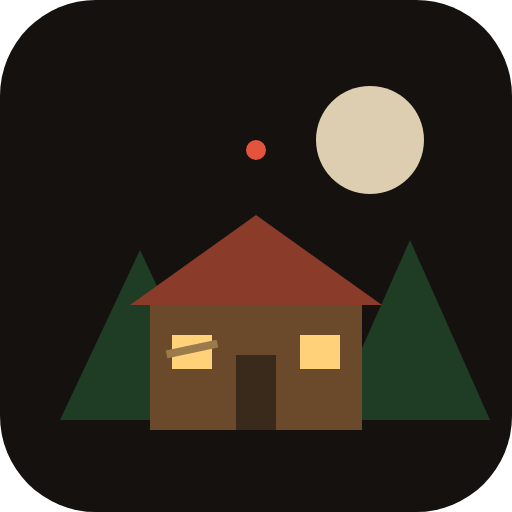
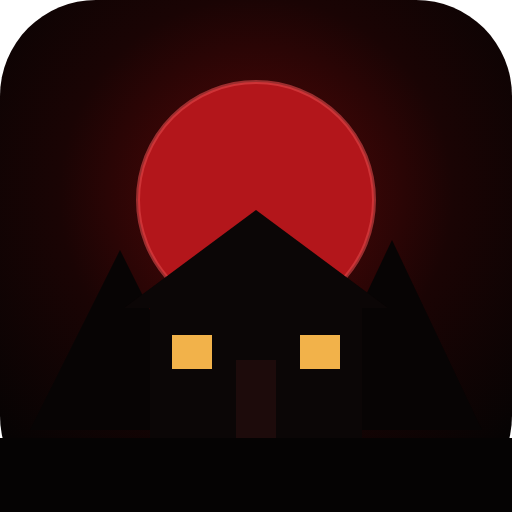
Godfather look: black, blood red and ivory; title fits landscape phones
- Red/black palette, serif (Bodoni/Didot) title and headings, red tabs
- Title no longer clips on landscape phones (2x2 buttons, safe centering)
- Noir app icon with a blood-red moon

Claude-Session: https://claude.ai/code/session_018BiyiJL4VtMftq9gbgBVqk

diff --git a/css/style.css b/css/style.css
@@ -1,12 +1,12 @@
 /* Cabin Under Siege — UI styles. Mobile-first, safe-area aware. */
 :root {
-  --bg: #14110e;
-  --panel: rgba(24, 20, 16, 0.94);
-  --panel2: #2a231b;
-  --line: #4a3c2c;
-  --text: #f1e8d6;
-  --muted: #a8998a;
-  --accent: #e0a542;
+  --bg: #0a0707;
+  --panel: rgba(13, 8, 8, 0.95);
+  --panel2: #1d1111;
+  --line: #4d1b1b;
+  --text: #f2eae2;
+  --muted: #a39390;
+  --accent: #e5484d;
   --good: #6fbf73;
   --danger: #e5533d;
   --info: #5bc0de;
@@ -15,6 +15,9 @@
   --sab: env(safe-area-inset-bottom, 0px);
   --sal: env(safe-area-inset-left, 0px);
   --font: system-ui, -apple-system, "Segoe UI", Roboto, sans-serif;
+  --serif: "Bodoni 72", Didot, "Bodoni MT", "Playfair Display", Georgia, "Times New Roman", serif;
+  --blood: #9b1111;
+  --blood-hi: #c9262a;
 }
 
 * { box-sizing: border-box; -webkit-tap-highlight-color: transparent; }
@@ -29,7 +32,7 @@ html, body {
 #game { position: absolute; left: 0; top: 0; display: block; touch-action: none; }
 .hidden { display: none !important; }
 button { font-family: inherit; color: inherit; touch-action: manipulation; }
-kbd { background: #3a3128; border: 1px solid #5a4c3c; border-bottom-width: 2px; border-radius: 4px; padding: 0 5px; font-size: 0.85em; font-family: inherit; }
+kbd { background: #2a1515; border: 1px solid #5e2424; border-bottom-width: 2px; border-radius: 4px; padding: 0 5px; font-size: 0.85em; font-family: inherit; }
 
 /* ---------------- HUD ---------------- */
 #hud { position: absolute; inset: 0; pointer-events: none; }
@@ -48,7 +51,7 @@ kbd { background: #3a3128; border: 1px solid #5a4c3c; border-bottom-width: 2px; 
 
 .hud-tc { position: absolute; top: calc(6px + var(--sat)); left: 50%; transform: translateX(-50%); width: min(44vw, 420px); text-align: center; }
 .clock { display: inline-block; font-weight: 700; font-size: 13px; background: rgba(0,0,0,0.55); padding: 3px 10px; border-radius: 10px; text-shadow: 0 1px 2px #000; }
-.objective { display: block; margin: 4px auto 0; max-width: 100%; font-size: 12px; line-height: 1.25; text-align: center; background: rgba(20,16,10,0.72); border: 1px solid rgba(224,165,66,0.55); color: #ffe2a8; padding: 4px 10px; border-radius: 8px; cursor: pointer; }
+.objective { display: block; margin: 4px auto 0; max-width: 100%; font-size: 12px; line-height: 1.25; text-align: center; background: rgba(20,16,10,0.72); border: 1px solid rgba(201,38,42,0.55); color: #f4e7d9; padding: 4px 10px; border-radius: 8px; cursor: pointer; }
 .objective::before { content: "◆ "; color: var(--accent); }
 .jobline { margin-top: 3px; font-size: 11px; background: rgba(10,30,40,0.7); border: 1px solid rgba(91,192,222,0.5); padding: 3px 8px; border-radius: 8px; color: #cdefff; }
 
@@ -69,7 +72,7 @@ kbd { background: #3a3128; border: 1px solid #5a4c3c; border-bottom-width: 2px; 
 .banner { position: absolute; top: calc(108px + var(--sat)); left: 50%; transform: translateX(-50%); max-width: min(92vw, 640px); text-align: center; background: rgba(18,14,10,0.92); border: 1px solid var(--line); padding: 8px 14px; border-radius: 10px; font-size: 13px; line-height: 1.3; animation: slide 0.25s ease-out; }
 .banner.b-danger { border-color: #ff6a50; background: rgba(70,14,8,0.94); }
 .banner.b-good { border-color: var(--good); }
-.banner.b-objective { border-color: var(--accent); color: #ffe2a8; }
+.banner.b-objective { border-color: var(--accent); color: #f4e7d9; }
 @keyframes slide { from { opacity: 0; transform: translate(-50%, -8px); } to { opacity: 1; transform: translate(-50%, 0); } }
 .cover-tag { position: absolute; left: 50%; bottom: calc(40% + var(--sab)); transform: translateX(-50%); font-size: 11px; font-weight: 800; background: rgba(30,60,90,0.85); border: 1px solid var(--info); padding: 2px 8px; border-radius: 6px; }
 .toasts { position: absolute; left: calc(10px + var(--sal)); top: calc(78px + var(--sat)); width: min(46vw, 320px); display: flex; flex-direction: column; gap: 4px; }
@@ -77,7 +80,7 @@ kbd { background: #3a3128; border: 1px solid #5a4c3c; border-bottom-width: 2px; 
 .toast.out { opacity: 0; }
 .toast.t-xp { border-color: #b388ff; }
 .toast.t-money { border-color: #6fdc7a; color: #c9f5cd; }
-.toast.t-level { border-color: var(--accent); color: #ffe2a8; font-weight: 700; }
+.toast.t-level { border-color: var(--accent); color: #f4e7d9; font-weight: 700; }
 .toast.t-warn { border-color: #f0ad4e; }
 .toast.t-danger { border-color: var(--danger); color: #ffd0c8; }
 .toast.t-heal { border-color: #e2574a; }
@@ -93,7 +96,7 @@ body.touch .prompt { bottom: auto; top: calc(48% + 26px); font-size: 12px; paddi
 .center-msg { position: absolute; left: 50%; top: 40%; transform: translate(-50%, -50%); text-align: center; pointer-events: none; }
 .center-msg.show { animation: cm 0.5s ease-out; }
 .cm-title { font-size: clamp(26px, 6vw, 48px); font-weight: 900; letter-spacing: 3px; color: #fff; text-shadow: 0 3px 0 #7a1a10, 0 0 20px rgba(255,80,40,0.6); }
-.cm-sub { font-size: 16px; color: #ffe2a8; text-shadow: 0 1px 3px #000; margin-top: 4px; }
+.cm-sub { font-size: 16px; color: #f4e7d9; text-shadow: 0 1px 3px #000; margin-top: 4px; }
 @keyframes cm { from { transform: translate(-50%, -50%) scale(1.4); opacity: 0; } to { transform: translate(-50%, -50%) scale(1); opacity: 1; } }
 
 /* ---------------- Touch controls ---------------- */
@@ -167,8 +170,8 @@ body.portrait.touch .rotate-hint:not(.dismissed) { display: block; position: abs
 .dlg-who { font-weight: 800; color: var(--accent); font-size: 14px; margin-bottom: 4px; }
 .dlg-text { font-size: 16px; line-height: 1.4; min-height: 2.8em; }
 .dlg-choices { display: flex; flex-direction: column; gap: 6px; margin-top: 8px; }
-.choice { text-align: left; padding: 10px 12px; font-size: 15px; background: #3a2f22; border: 1px solid #6a5640; border-radius: 8px; cursor: pointer; }
-.choice:hover, .choice:active { background: #4d3e2c; }
+.choice { text-align: left; padding: 10px 12px; font-size: 15px; background: #2a1212; border: 1px solid #6b2222; border-radius: 8px; cursor: pointer; }
+.choice:hover, .choice:active { background: #3d1818; }
 .dlg-foot { display: flex; justify-content: space-between; align-items: center; margin-top: 6px; }
 .dlg-tap { font-size: 11px; color: var(--muted); }
 .dlg-skip { background: transparent; border: 1px solid var(--line); border-radius: 6px; padding: 6px 12px; font-size: 13px; cursor: pointer; min-height: 36px; }
@@ -181,9 +184,9 @@ body.portrait.touch .rotate-hint:not(.dismissed) { display: block; position: abs
 .modal-wrap.wide .modal { width: min(920px, 100%); height: 100%; }
 .modal-wrap.small .modal { width: min(460px, 100%); }
 .modal-body { overflow-y: auto; -webkit-overflow-scrolling: touch; padding: 14px 16px 16px; touch-action: pan-y; user-select: text; -webkit-user-select: text; }
-.close-btn { position: absolute; right: 6px; top: 6px; width: 44px; height: 44px; border-radius: 10px; background: #3a2f22; border: 1px solid #6a5640; font-size: 20px; z-index: 5; cursor: pointer; }
+.close-btn { position: absolute; right: 6px; top: 6px; width: 44px; height: 44px; border-radius: 10px; background: #2a1212; border: 1px solid #6b2222; font-size: 20px; z-index: 5; cursor: pointer; }
 .modal h2 { margin: 0 50px 10px 0; font-size: 20px; }
-.modal h3 { margin: 16px 0 6px; font-size: 15px; color: var(--accent); }
+.modal h3 { margin: 16px 0 6px; font-size: 16px; color: var(--accent); font-family: var(--serif); letter-spacing: 0.5px; }
 .modal p { line-height: 1.4; }
 .menu-head { position: sticky; top: -14px; z-index: 3; margin: -14px -16px 10px; padding: 10px 62px 8px 16px; background: var(--panel); border-bottom: 1px solid var(--line); display: flex; align-items: center; gap: 10px; }
 .paused-tag { font-size: 10px; letter-spacing: 3px; color: var(--muted); writing-mode: initial; flex: 0 0 auto; }
@@ -192,13 +195,13 @@ body.portrait.touch .rotate-hint:not(.dismissed) { display: block; position: abs
 .menu-head .tabs::-webkit-scrollbar { display: none; }
 .menu-head .tab { flex: 0 0 auto; }
 .modal-wrap.wide .close-btn { top: 8px; right: 8px; }
-.tab { padding: 9px 12px; min-height: 40px; border-radius: 8px; border: 1px solid var(--line); background: #241d16; font-size: 13px; font-weight: 600; cursor: pointer; }
-.tab.on { background: var(--accent); color: #1a120a; border-color: var(--accent); }
+.tab { padding: 9px 12px; min-height: 40px; border-radius: 8px; border: 1px solid var(--line); background: #150d0d; font-size: 13px; font-weight: 600; cursor: pointer; }
+.tab.on { background: linear-gradient(180deg, var(--blood-hi), var(--blood)); color: #fff; border-color: #e0474a; }
 .pip { display: inline-block; background: var(--danger); color: #fff; border-radius: 50%; width: 16px; height: 16px; font-size: 11px; line-height: 16px; text-align: center; }
-.btn { padding: 10px 14px; min-height: 44px; border-radius: 9px; border: 1px solid #6a5640; background: #3a2f22; font-size: 14px; font-weight: 600; cursor: pointer; }
-.btn:hover:not(:disabled) { background: #4d3e2c; }
+.btn { padding: 10px 14px; min-height: 44px; border-radius: 9px; border: 1px solid #6b2222; background: #2a1212; font-size: 14px; font-weight: 600; cursor: pointer; }
+.btn:hover:not(:disabled) { background: #3d1818; }
 .btn:disabled { opacity: 0.4; cursor: not-allowed; }
-.btn.primary { background: #b9772a; border-color: #e0a542; color: #fff; }
+.btn.primary { background: linear-gradient(180deg, var(--blood-hi), var(--blood)); border-color: #e0474a; color: #fff; }
 .btn.danger { background: #6b231a; border-color: #c0392b; }
 .btn.big { width: 100%; font-size: 16px; min-height: 50px; }
 .btn.sm { padding: 6px 10px; min-height: 38px; font-size: 13px; }
@@ -209,13 +212,13 @@ body.portrait.touch .rotate-hint:not(.dismissed) { display: block; position: abs
 .muted { color: var(--muted); }
 .small { font-size: 12px; }
 .hl { color: var(--accent); font-weight: 700; }
-.hint { font-size: 12px; color: #cdbfa8; background: rgba(255,255,255,0.04); border-left: 3px solid var(--accent); padding: 6px 10px; border-radius: 4px; }
+.hint { font-size: 12px; color: #cbbdb6; background: rgba(255,255,255,0.04); border-left: 3px solid var(--accent); padding: 6px 10px; border-radius: 4px; }
 .stat-line { margin: 4px 0 10px; font-size: 14px; }
 .item-row { display: grid; grid-template-columns: 38px minmax(0, 1fr) auto; gap: 10px; align-items: center; padding: 8px 4px; border-bottom: 1px solid rgba(255,255,255,0.07); }
-.item-icon { width: 36px; height: 36px; flex: 0 0 36px; display: flex; align-items: center; justify-content: center; font-size: 20px; background: #241d16; border-radius: 8px; border: 1px solid var(--line); }
+.item-icon { width: 36px; height: 36px; flex: 0 0 36px; display: flex; align-items: center; justify-content: center; font-size: 20px; background: #150d0d; border-radius: 8px; border: 1px solid var(--line); }
 .item-main { flex: 1; min-width: 0; }
 .item-name { font-weight: 700; font-size: 14px; }
-.item-desc { font-size: 12px; color: #cdbfa8; }
+.item-desc { font-size: 12px; color: #cbbdb6; }
 .item-btns { display: grid; grid-auto-flow: column; grid-auto-columns: 96px; gap: 6px; justify-content: end; }
 .item-btns .btn { width: 96px; padding-left: 4px; padding-right: 4px; }
 .item-row > .btn { min-width: 96px; }
@@ -223,14 +226,14 @@ body.portrait.touch .rotate-hint:not(.dismissed) { display: block; position: abs
 .char-head { display: flex; justify-content: space-between; align-items: center; }
 .big { font-size: 20px; font-weight: 800; }
 .lvl { font-size: 18px; }
-.xpbar { position: relative; height: 22px; background: #241d16; border: 1px solid var(--line); border-radius: 6px; overflow: hidden; margin: 8px 0; }
+.xpbar { position: relative; height: 22px; background: #150d0d; border: 1px solid var(--line); border-radius: 6px; overflow: hidden; margin: 8px 0; }
 .xpbar div { height: 100%; background: linear-gradient(#a37ae8, #6c3fc4); }
 .xpbar span { position: absolute; inset: 0; text-align: center; font-size: 12px; line-height: 22px; font-weight: 700; }
 .attr-row { display: grid; grid-template-columns: 150px minmax(0, 1fr) 48px; align-items: center; gap: 12px; padding: 8px 0; border-bottom: 1px solid rgba(255,255,255,0.07); }
 .attr-name { white-space: nowrap; display: flex; align-items: center; justify-content: space-between; }
-.attr-val { display: inline-block; min-width: 24px; text-align: center; background: #241d16; border-radius: 6px; padding: 2px 6px; margin-left: 4px; }
+.attr-val { display: inline-block; min-width: 24px; text-align: center; background: #150d0d; border-radius: 6px; padding: 2px 6px; margin-left: 4px; }
 .attr-desc { flex: 1; font-size: 12px; }
-.derived { display: flex; flex-wrap: wrap; gap: 6px 14px; font-size: 12px; margin-top: 10px; color: #cdbfa8; }
+.derived { display: flex; flex-wrap: wrap; gap: 6px 14px; font-size: 12px; margin-top: 10px; color: #cbbdb6; }
 .path { border: 1px solid var(--line); border-left: 4px solid var(--pc); border-radius: 8px; padding: 8px 10px; margin: 10px 0; }
 .path-head { display: flex; align-items: center; gap: 8px; font-size: 15px; }
 .path-icon { font-size: 18px; }
@@ -240,31 +243,31 @@ body.portrait.touch .rotate-hint:not(.dismissed) { display: block; position: abs
 .skill .btn { width: 96px; }
 .skill-owned-tag { text-align: center; }
 .skill.owned b { color: var(--pc); }
-.skill-desc { font-size: 12px; color: #cdbfa8; }
+.skill-desc { font-size: 12px; color: #cbbdb6; }
 .def-row { display: grid; grid-template-columns: minmax(150px, 1.1fr) minmax(80px, 1fr) minmax(150px, 1.3fr); gap: 12px; align-items: center; padding: 8px 0; border-bottom: 1px solid rgba(255,255,255,0.07); }
 .def-row.wide { grid-template-columns: minmax(150px, 1.1fr) minmax(0, 2.3fr); }
 .def-name { font-weight: 700; font-size: 14px; }
-.tag { font-size: 10px; background: #3a2f22; border: 1px solid #6a5640; border-radius: 4px; padding: 1px 5px; margin-left: 4px; font-weight: 600; }
-.cond { height: 8px; background: #241d16; border-radius: 4px; overflow: hidden; }
+.tag { font-size: 10px; background: #2a1212; border: 1px solid #6b2222; border-radius: 4px; padding: 1px 5px; margin-left: 4px; font-weight: 600; }
+.cond { height: 8px; background: #150d0d; border-radius: 4px; overflow: hidden; }
 .cond-fill { height: 100%; background: var(--good); }
 .cond-fill.mid { background: #e0a542; background-image: repeating-linear-gradient(45deg, transparent 0 4px, rgba(0,0,0,0.2) 4px 8px); }
 .cond-fill.bad { background: var(--danger); background-image: repeating-linear-gradient(45deg, transparent 0 2px, rgba(0,0,0,0.35) 2px 4px); }
-.def-stat { font-size: 12px; color: #cdbfa8; }
+.def-stat { font-size: 12px; color: #cbbdb6; }
 .heat-low { color: var(--good); } .heat-rising { color: #e0c542; } .heat-high { color: #f08a42; } .heat-severe { color: var(--danger); }
 .minimap { width: 100%; max-width: 640px; border-radius: 8px; border: 1px solid var(--line); display: block; margin: 0 auto; }
 .legend { display: flex; flex-wrap: wrap; gap: 10px; font-size: 12px; margin: 6px 0; }
 .legend i { display: inline-block; width: 10px; height: 10px; border-radius: 50%; margin-right: 4px; border: 1px solid #000; }
 .places { display: flex; flex-wrap: wrap; gap: 6px 14px; font-size: 12px; }
-.objective-box { background: rgba(224,165,66,0.1); border: 1px solid rgba(224,165,66,0.5); border-radius: 8px; padding: 8px 10px; margin: 6px 0; font-size: 14px; }
+.objective-box { background: rgba(201,38,42,0.1); border: 1px solid rgba(201,38,42,0.55); border-radius: 8px; padding: 8px 10px; margin: 6px 0; font-size: 14px; }
 .objective-box.job { background: rgba(91,192,222,0.08); border-color: rgba(91,192,222,0.5); }
 .rel-row { display: grid; grid-template-columns: minmax(0, 1fr) auto; gap: 12px; align-items: start; padding: 8px 0; border-bottom: 1px solid rgba(255,255,255,0.07); }
 .hearts { color: #ff8fb1; font-size: 18px; white-space: nowrap; }
 .home-row { font-size: 13px; padding: 3px 0; }
 .set-grid { display: grid; grid-template-columns: repeat(auto-fit, minmax(260px, 1fr)); gap: 10px; }
-.set-grid label { display: flex; align-items: center; gap: 8px; font-size: 14px; background: #241d16; padding: 8px 10px; border-radius: 8px; min-height: 44px; }
+.set-grid label { display: flex; align-items: center; gap: 8px; font-size: 14px; background: #150d0d; padding: 8px 10px; border-radius: 8px; min-height: 44px; }
 .set-grid input[type=range] { flex: 1; }
 .set-grid input[type=checkbox] { width: 22px; height: 22px; }
-.set-grid select { margin-left: auto; font-size: 14px; padding: 6px; background: #3a2f22; color: var(--text); border: 1px solid #6a5640; border-radius: 6px; }
+.set-grid select { margin-left: auto; font-size: 14px; padding: 6px; background: #2a1212; color: var(--text); border: 1px solid #6b2222; border-radius: 6px; }
 .npc-head { display: flex; gap: 10px; align-items: center; margin-right: 46px; }
 .npc-head h2 { margin: 0; }
 .npc-head .hearts { margin-left: auto; }
@@ -276,7 +279,7 @@ body.portrait.touch .rotate-hint:not(.dismissed) { display: block; position: abs
 .pay { color: #9fe39f; }
 .help-cols { display: grid; grid-template-columns: repeat(auto-fit, minmax(260px, 1fr)); gap: 10px; }
 .modal ul { padding-left: 18px; line-height: 1.5; font-size: 13px; }
-.rg-bar { position: relative; height: 40px; background: #241d16; border: 2px solid var(--line); border-radius: 8px; margin: 14px 0 8px; overflow: hidden; }
+.rg-bar { position: relative; height: 40px; background: #150d0d; border: 2px solid var(--line); border-radius: 8px; margin: 14px 0 8px; overflow: hidden; }
 .rg-bar.miss { border-color: var(--danger); }
 .rg-zone { position: absolute; top: 0; bottom: 0; background: rgba(111,191,115,0.55); border-left: 2px solid #9f9; border-right: 2px solid #9f9; }
 .rg-needle { position: absolute; top: -2px; bottom: -2px; width: 4px; margin-left: -2px; background: #fff; box-shadow: 0 0 6px #fff; }
@@ -297,25 +300,41 @@ body.portrait.touch .rotate-hint:not(.dismissed) { display: block; position: abs
 .ch-done { color: var(--accent); letter-spacing: 3px; margin-bottom: 10px; }
 
 /* ---------------- Title ---------------- */
-.title { position: absolute; inset: 0; z-index: 25; display: flex; align-items: center; justify-content: center; padding: calc(12px + var(--sat)) calc(12px + var(--sar)) calc(12px + var(--sab)) calc(12px + var(--sal));
-  background: radial-gradient(ellipse at 50% 30%, rgba(255,170,80,0.18), transparent 60%), linear-gradient(180deg, #0c1220 0%, #1a1a24 55%, #1b140e 100%); overflow-y: auto; }
-.title::before { content: ""; position: absolute; left: 0; right: 0; bottom: 0; height: 32%; background:
-  radial-gradient(circle at 10% 100%, #0d1a10 0 60px, transparent 61px), radial-gradient(circle at 22% 100%, #0f2012 0 90px, transparent 91px),
-  radial-gradient(circle at 80% 100%, #0d1a10 0 80px, transparent 81px), radial-gradient(circle at 92% 100%, #0f2012 0 70px, transparent 71px);
+.title { position: absolute; inset: 0; z-index: 25; display: flex; flex-direction: column; align-items: center; padding: calc(12px + var(--sat)) calc(12px + var(--sar)) calc(12px + var(--sab)) calc(12px + var(--sal));
+  background: radial-gradient(ellipse at 50% 38%, rgba(140,8,8,0.42), transparent 62%), radial-gradient(ellipse at 50% 120%, rgba(110,0,0,0.5), transparent 55%), linear-gradient(180deg, #030202 0%, #0b0606 60%, #140505 100%); overflow-y: auto; }
+.title::before { content: ""; position: fixed; left: 0; right: 0; bottom: 0; height: 32%; background:
+  radial-gradient(circle at 10% 100%, #170505 0 60px, transparent 61px), radial-gradient(circle at 22% 100%, #200707 0 90px, transparent 91px),
+  radial-gradient(circle at 80% 100%, #170505 0 80px, transparent 81px), radial-gradient(circle at 92% 100%, #200707 0 70px, transparent 71px);
   pointer-events: none; }
-.title-inner { position: relative; text-align: center; max-width: 520px; width: 100%; }
-.title-kicker { letter-spacing: 6px; font-size: 11px; color: var(--muted); text-transform: uppercase; }
-.title h1 { font-size: clamp(34px, 9vw, 64px); line-height: 0.95; margin: 8px 0; letter-spacing: 4px; color: #f3e3c3; text-shadow: 0 4px 0 #6b2a17, 0 0 30px rgba(255,140,60,0.35); }
-.tagline { font-style: italic; color: #e8c88e; margin: 6px 0 18px; }
+/* margin:auto centres when there's room and lets the page scroll from the top when there isn't (no clipped title). */
+.title-inner { position: relative; text-align: center; max-width: 520px; width: 100%; margin: auto 0; }
+.title-kicker { letter-spacing: 6px; font-size: 11px; color: #b9a49f; text-transform: uppercase; font-family: var(--serif); }
+.title h1 { font-family: var(--serif); font-weight: 700; font-size: clamp(34px, 9vw, 64px); line-height: 0.95; margin: 8px 0; letter-spacing: 3px; color: #f4ede4;
+  text-shadow: 0 3px 0 #4a0707, 0 0 34px rgba(200,20,20,0.5); }
+.title h1::after { content: ""; display: block; width: 46%; height: 2px; margin: 12px auto 0; background: linear-gradient(90deg, transparent, var(--blood-hi), transparent); }
+.tagline { font-family: var(--serif); font-style: italic; color: #e2cfc6; margin: 8px 0 18px; }
 .title-btns { display: flex; flex-direction: column; gap: 8px; max-width: 320px; margin: 0 auto; }
+.title-btns .btn { background: rgba(20,8,8,0.85); border-color: #5e1c1c; letter-spacing: 1px; }
+.title-btns .btn:hover:not(:disabled) { background: #3a1010; border-color: var(--blood-hi); }
+.title-btns .btn.primary { background: linear-gradient(180deg, var(--blood-hi), var(--blood)); border-color: #e0474a; }
 .title-btns .sub { display: block; font-size: 11px; font-weight: 500; opacity: 0.85; }
 .title-note { font-size: 11px; color: var(--muted); margin-top: 14px; }
-@media (max-height: 420px) { .title h1 { font-size: 34px; } .tagline { margin-bottom: 8px; } .title-btns { flex-direction: row; flex-wrap: wrap; max-width: 600px; } .title-btns .btn { flex: 1 1 40%; } }
+/* Landscape phones (up to ~Pro Max height): smaller title, buttons in a 2×2 grid. */
+@media (max-height: 520px) and (orientation: landscape) {
+  .title-kicker { font-size: 9px; letter-spacing: 5px; }
+  .title h1 { font-size: clamp(28px, 10.5vh, 50px); margin: 4px 0; }
+  .title h1::after { margin-top: 8px; }
+  .tagline { font-size: 13px; margin: 6px 0 10px; }
+  .title-btns { display: grid; grid-template-columns: 1fr 1fr; max-width: 560px; gap: 8px; }
+  .title-btns .btn.big { min-height: 42px; font-size: 15px; }
+  .title-btns #t-continue { grid-column: 1 / -1; }
+  .title-note { margin-top: 8px; }
+}
 .noscript { position: absolute; inset: 0; display: flex; align-items: center; justify-content: center; background: var(--bg); }
 body.touch .prompt kbd { display: none; }
 
 .objective-box.favor { background: rgba(165,139,216,0.1); border-color: rgba(165,139,216,0.55); }
-.hl-btn { border-color: var(--accent); color: #ffe2a8; }
+.hl-btn { border-color: var(--accent); color: #f4e7d9; }
 
 /* Compact menus on short (landscape phone) screens */
 @media (max-height: 500px) {
@@ -361,3 +380,6 @@ body.touch .prompt kbd { display: none; }
 .diff-list { display: grid; gap: 10px; margin: 12px 0; }
 .diff-btn { display: flex; flex-direction: column; align-items: flex-start; text-align: left; gap: 4px; white-space: normal; }
 .diff-btn span { font-size: 12px; font-weight: 400; opacity: 0.85; }
+
+/* ---------------- Godfather styling: serif headings, red rules ---------------- */
+.modal h2, .chapter-card h2, .defeat-title { font-family: var(--serif); letter-spacing: 1px; }

diff --git a/index.html b/index.html
@@ -6,7 +6,7 @@
   <meta name="apple-mobile-web-app-capable" content="yes">
   <meta name="mobile-web-app-capable" content="yes">
   <meta name="apple-mobile-web-app-status-bar-style" content="black-translucent">
-  <meta name="theme-color" content="#14110e">
+  <meta name="theme-color" content="#0a0707">
   <meta name="description" content="Cabin Under Siege — a top-down survival action RPG. You left the family. The family didn't leave you.">
   <title>Cabin Under Siege</title>
   <link rel="manifest" href="manifest.webmanifest">

diff --git a/sw.js b/sw.js
@@ -1,7 +1,7 @@
 // Service worker: lets the game run offline after the first visit.
 // Network-first for freshness, falling back to the cache when offline.
 // Bump CACHE when shipping a new version.
-const CACHE = 'cabin-under-siege-v0.3.0';
+const CACHE = 'cabin-under-siege-v0.3.1';
 const ASSETS = [
   './',
   './index.html',

diff --git a/src/config.js b/src/config.js
@@ -1,6 +1,6 @@
 // Global tuning constants.
 
-export const GAME_VERSION = '0.3.0';
+export const GAME_VERSION = '0.3.1';
 export const TILE = 32;
 export const SAVE_VERSION = 2;
 export const SAVE_KEY = 'cabinUnderSiege.save';
